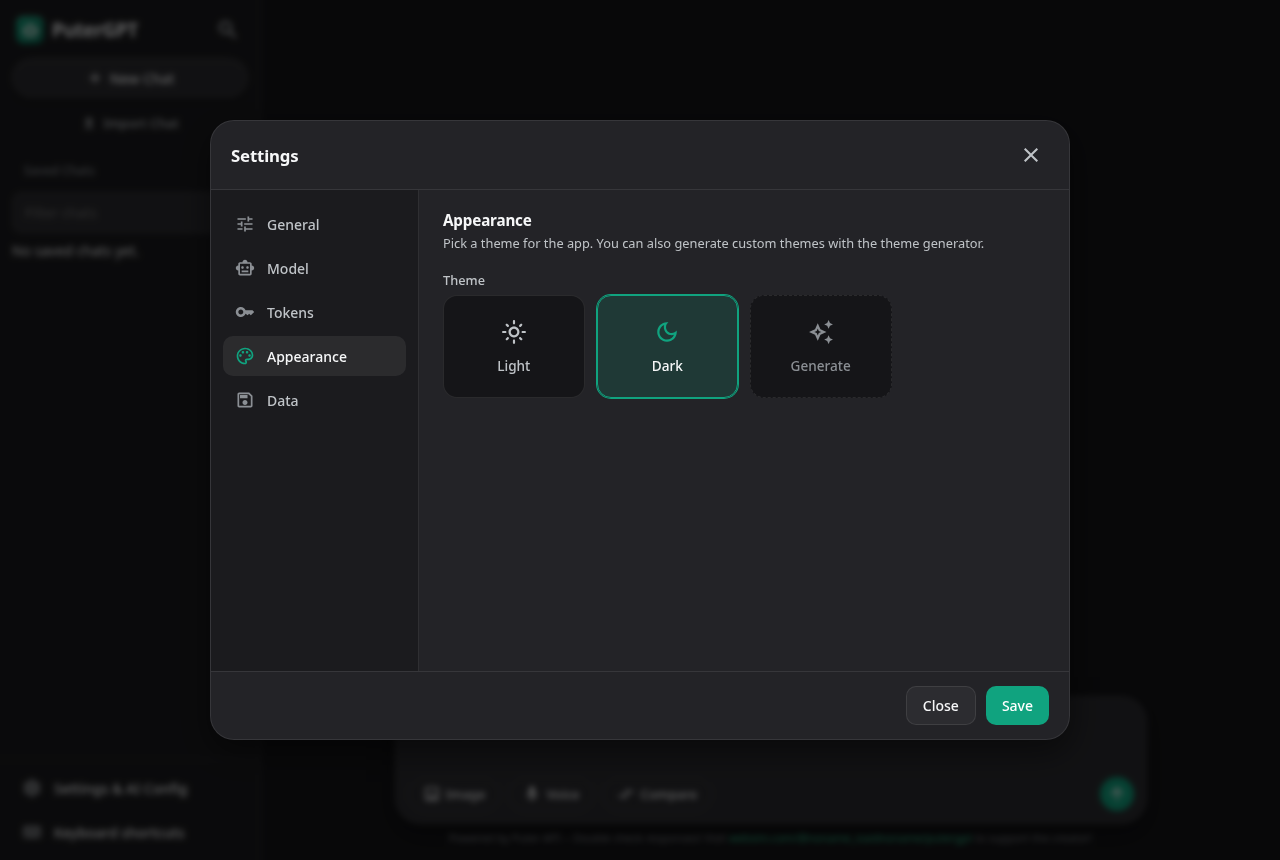
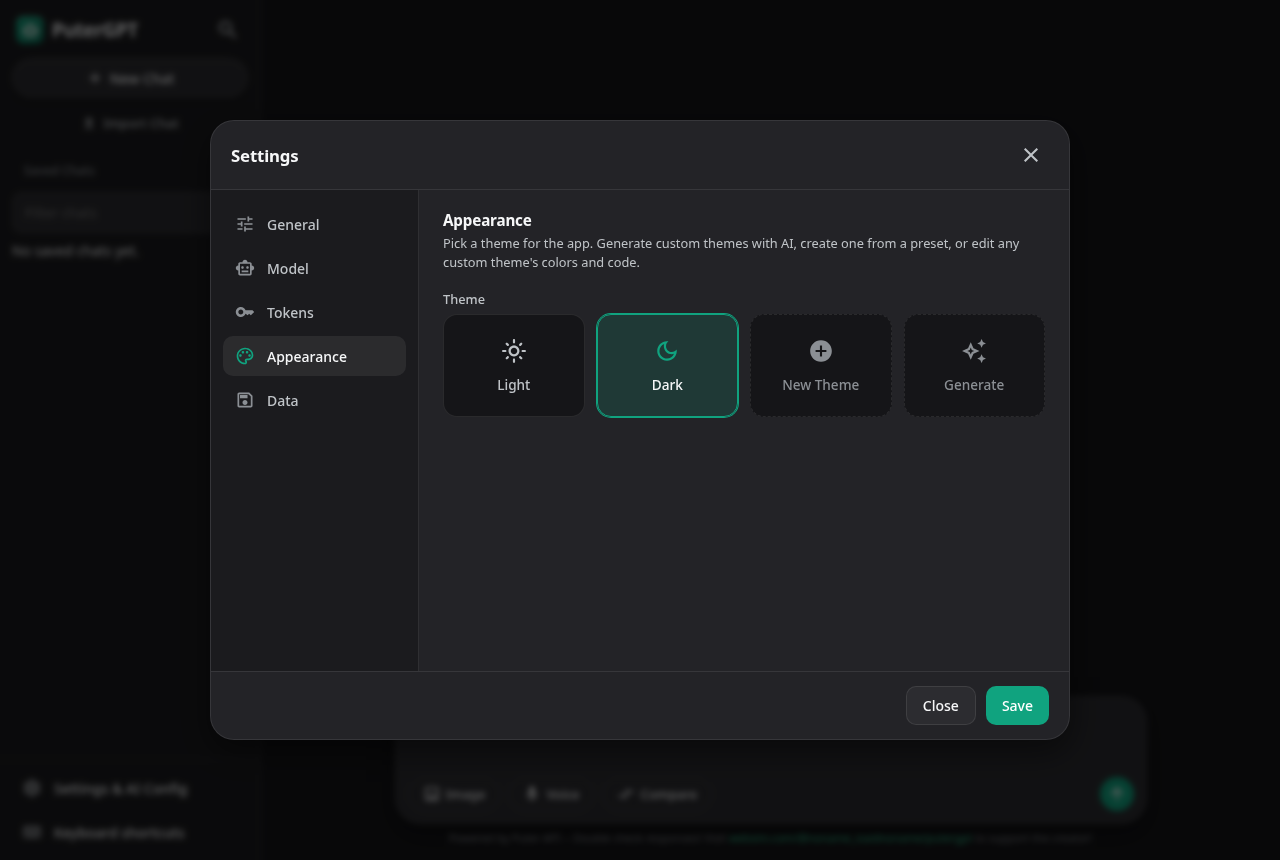
docs: rework docs and remove internal references from README.md

diff --git a/CONTRIBUTING.md b/CONTRIBUTING.md
@@ -1,28 +1,100 @@
 # Contributing
 
-PuterGPT is a static HTML, CSS, and vanilla JavaScript app. It is served as-is; do not add a build step, framework, or package manifest.
+PuterGPT is a static HTML, CSS, and vanilla JavaScript app — served as-is from the repo root. There is deliberately no build step, framework, bundler, or package manifest. Keep it that way unless a change is impossible to express with plain files.
 
-## Run locally
+This is the friendly version of the contributor guide. [AGENTS.md](AGENTS.md) carries the full project map, the state/security invariants, the failure modes we've hit, and the AI-agent context — dense but authoritative. [tools/README.md](tools/README.md) covers the verification harnesses in detail. When you're unsure where something in this repo is documented, check those before guessing.
+
+## Prerequisites
+
+- A modern browser (Chromium, Firefox, Safari) with IndexedDB support.
+- `python3` for the local static server — or any static file server.
+- Playwright (for screenshots / mobile emulation) and/or Lightpanda (fast, no graphical engine) for the verification harnesses. [tools/README.md](tools/README.md) covers installing them.
+
+## Run it locally
 
 ```bash
+git clone https://github.com/noname-isaidnoname/PuterGPT.git
+cd PuterGPT
 python3 -m http.server 8000
 ```
 
-Open `http://localhost:8000`. Read [AGENTS.md](AGENTS.md) for the project map, state and security invariants, theming rules, and verification gotchas.
+Open `http://localhost:8000`. Read [AGENTS.md](AGENTS.md) for the architecture map, the state invariants, the security rules, and the verification gotchas.
 
-## Verify changes
+A secure context such as HTTPS or localhost is needed for features including service workers and some clipboard and speech APIs.
 
-The browser harnesses and prerequisites are documented in [tools/README.md](tools/README.md). With the required tools already installed:
+## Project layout in one minute
+
+Everything is served from the repo root — there is no `src/` and no `dist/`.
+
+- `index.html` — the skeleton: sidebar, welcome view, composer, **all** modals (settings, settings-confirm, code runner, theme generator, delete-theme, theme editor, preset creation), the toast container, and the default dark `:root` CSS variables.
+- `js/` — plain ES modules loaded by the browser (no imports/exports are used; entry is `js/app.js`).
+- `css/` — one concern per file, linked from `index.html`.
+- `manifest.json`, `sw.js`, `js/pwa.js` — installable app shell.
+- `tools/` — verification harnesses (Node, zero app dependencies). They are not needed to run the app. Don't add them to commits by accident.
+- `screenshots/` — screenshots referenced by docs, can be committed; ad-hoc harness screenshots elsewhere are verification artifacts and don't belong in commits.
+
+For the detailed per-file ownership list see [AGENTS.md](AGENTS.md) ("Project map").
+
+## Verify your changes
+
+With the verification tools installed (see [tools/README.md](tools/README.md) for prerequisites):
 
 ```bash
-node tools/verify-all.js
-node tools/verify-all.js --changed
-node tools/verify-settings.js --backend playwright
-node tools/verify-mobile.js --backend playwright
+node tools/verify-all.js                  # full suite, runs in parallel
+node tools/verify-all.js --changed        # only harnesses affected by uncommitted changes (used by the pre-commit hook)
 ```
 
-The Playwright runs capture screenshots for visual inspection. Generation and state changes should also have an independent scenario in `tools/verify-edge-cases.js`. Ask before installing missing verification tools on someone else's machine.
+Single harnesses:
 
-Install the versioned pre-commit hook with `sh tools/install-hooks.sh`. It checks JavaScript syntax, runs the applicable verification harnesses, and blocks a failing commit. The hook can be bypassed in an emergency with `git commit --no-verify`.
+```bash
+node tools/verify-settings.js --backend playwright   # settings sidebar; needs Playwright for screenshots
+node tools/verify-custom-themes.js                  # theme-card grid (built-ins, custom themes, preset, edit buttons)
+node tools/verify-theme-editor.js                   # the theme editor end-to-end
+node tools/verify-mobile.js --backend playwright    # mobile viewport emulation
+node tools/verify-edge-cases.js                     # failure/abort/XSS paths (Playwright-only, fully offline mock API)
+node tools/verify-edge-cases.js --only 11           # one scenario by 1-based index; substrings work too
+```
 
-When changing cached app files, update the service worker cache version and maintain its app-shell asset list. Do not cache Puter API responses. Keep secrets, user data, and ad-hoc generated screenshots out of commits; screenshots under `screenshots/` that are used by the documentation are fine to commit.
+`node tools/verify-all.js` exits non-zero if anything fails; on success it prints one line per harness and the full output only for failures. `--verbose` prints everything; `--timeout N` bounds each harness (default 180s). Generation paths are mocked offline — nothing here hits the real Puter API except a few explicit scenarios.
+
+New user-visible behavior should come with a matching scenario in `tools/verify-edge-cases.js`.
+
+### Pre-commit hook
+
+`.githooks/pre-commit` runs `node tools/verify-all.js --changed` and blocks a failing commit (whole suite unless the change is docs/meta-only). Install once per clone:
+
+```bash
+sh tools/install-hooks.sh
+```
+
+Bypass in an emergency with `git commit --no-verify`.
+
+### Refreshing documentation screenshots
+
+The settings and theme-card screenshots referenced by `README.md` are generated by the harnesses:
+
+```bash
+node tools/verify-settings.js --backend playwright --screenshot-dir /tmp/shots
+node tools/verify-mobile.js --backend playwright   --screenshot-dir /tmp/shots
+```
+
+To use them in the docs, copy them into `screenshots/` and keep the references in `README.md` in sync. Only `screenshots/` is a valid place to commit screenshots; harness output elsewhere is an artifact and not for commits.
+
+### Cached files and the service worker
+
+If you change anything the service worker caches — `manifest.json`, `sw.js`, `index.html`, any `css/*.css`, any `js/*.js`, icons, CDN assets — bump `CACHE_NAME` in `sw.js` and keep `APP_SHELL` in sync with added or removed assets. Never cache Puter API responses or authenticated requests. The manifest theme color is intentionally static dark.
+
+### What doesn't belong in commits
+
+- Harness screenshots (they go to `$TMPDIR/putergpt-tools` by default).
+- `node_modules/`, `.fallow/`, editor/OS droppings.
+- Anything in `tools/.env`, any `PUTER_TOKEN`, or anything with a real user prompt, token, or chat content.
+- The only allowed screenshots live under `screenshots/` and are referenced by the docs.
+- `screenshots/` itself is the exception: images referenced by `README.md` may be committed there.
+
+## Where the documentation lives
+
+- [README.md](README.md) — what PuterGPT does for users: features, screenshots, privacy, limitations. No internals.
+- [CONTRIBUTING.md](CONTRIBUTING.md) — this file: how to run and verify the app as a contributor.
+- [AGENTS.md](AGENTS.md) — full internal map for AI agents: invariants, gotchas, verification trapdoors, the full theme/custom-theme state machine.
+- [tools/README.md](tools/README.md) — the verification harnesses and their per-script coverage.

diff --git a/README.md b/README.md
@@ -45,7 +45,7 @@ flowchart LR
     end
 ```
 
-This is a schematic, not a screenshot. For current desktop and mobile screenshots, see [Development and visual checks](#development-and-visual-checks).
+This is a schematic, not a screenshot. See the screenshots below.
 
 | Settings and theme cards | Mobile settings |
 | --- | --- |
@@ -60,7 +60,8 @@ This is a schematic, not a screenshot. For current desktop and mobile screenshot
 - **Organize and search:** Filter chat titles in the sidebar, pin conversations, and search saved chats. New chats can be named automatically using a free model when one is available.
 - **Backups and exports:** Export individual chats as JSON or Markdown, print a transcript, or use Settings → Data to export and merge a full backup. API tokens are excluded from backups unless explicitly selected. Backups and exports may contain prompts, images, and other private conversation data.
 - **Sharing and input:** Share a chat using the mobile share sheet when available, or copy its link. Supported browsers also offer voice input.
-- **Themes and tokens:** Choose a built-in theme or create a custom theme, manage multiple tokens, and opt in to token rotation. Custom themes can contain JavaScript effects; only import themes and backups you trust.
+- **Themes:** Choose a built-in theme, or create a custom theme (generate one with AI, or start from a dark/light preset and tweak it yourself). Edit any custom theme's colors and JavaScript effects — enable the live preview to see changes as you type. Only import themes and backups you trust — custom themes can contain JavaScript effects.
+- **Tokens:** Manage multiple Puter API tokens — add them by hand or via Quick Register — and opt in to token rotation so a failing token rotates to the next one automatically.
 - **Installable shell:** On supported browsers, install the app and reopen its cached interface offline. Generation and other Puter API operations still require a network connection. Updates wait for you to choose Reload.
 - **Keyboard access:** Press `?` or use **Keyboard shortcuts** in the sidebar for the full list. `Ctrl+K` focuses the chat filter, `Ctrl+,` opens settings, and `Ctrl+Shift+E` exports the current chat; use `Cmd` instead of `Ctrl` on macOS.
 
@@ -82,17 +83,8 @@ Puter requests send the selected token and relevant prompts or attachments to Pu
 - Legacy `puter_*` localStorage data is migrated to IndexedDB during startup when the corresponding database tables are empty. Existing database records are not replaced by that migration.
 - The app depends on third-party scripts and the Puter API. If a required library cannot load, a blocking error is shown instead of a partially functioning interface.
 
-## Development and visual checks
-
-See [CONTRIBUTING.md](CONTRIBUTING.md) and [tools/README.md](tools/README.md). The app needs no build or package installation; verification tools are separate:
-
-```bash
-node tools/verify-all.js
-node tools/verify-all.js --changed
-```
-
-For screenshots of the current settings sidebar and theme cards, run `node tools/verify-settings.js --backend playwright`. The harness writes `settings-general.png` and `settings-appearance.png` to the screenshot directory shown in its output (by default `$TMPDIR/putergpt-tools`); `node tools/verify-mobile.js --backend playwright` captures mobile views. Harness screenshots are verification artifacts; they don't belong in commits by default. The exception is `screenshots/`: screenshots stored there and referenced by the documentation are part of the repository and may be committed. To refresh them, copy the harness output there (e.g. with `--screenshot-dir screenshots`) and keep the docs' references in sync.
-
 ## Project
 
 Source and issue tracker: [github.com/noname-isaidnoname/PuterGPT](https://github.com/noname-isaidnoname/PuterGPT).
+
+Contributors: see [CONTRIBUTING.md](CONTRIBUTING.md) for local development and verification tooling. Editors of the app should read [AGENTS.md](AGENTS.md) for the project map and internal conventions.

diff --git a/AGENTS.md b/AGENTS.md
@@ -2,6 +2,16 @@
 
 Hosted at GitHub Pages: `https://noname-isaidnoname.github.io/PuterGPT/`, deliberately no build steps or servers: see below.
 
+## README, CONTRIBUTING, this file
+
+Three documents, three audiences — keep them consistent with their audience:
+
+- **`README.md`** is user-facing info only — what PuterGPT does, how to use it, privacy, limitations, project links. **No internals, no tooling, no implementation rationale, no verification details, no AI-agent context.** If you're tempted to put it there, it belongs in `CONTRIBUTING.md` (humans) or `AGENTS.md` (agents).
+- **`CONTRIBUTING.md`** is the human contributor guide — approachable, step-by-step: run locally, verify, screenshot refresh workflow, what doesn't belong in commits.
+- **`AGENTS.md`** (this file) is for AI agents — dense reference: architecture map, file ownership, invariants, failure modes, verification traps. It intentionally has no friendly intro.
+
+If you change a file's responsibilities here, update all three in the same change so nothing contradicts anything else. If you add user-facing docs that mention internals, move them out.
+
 PuterGPT — a browser-based AI chat client for [Puter.ai](https://puter.ai) models. Static HTML/CSS/vanilla JS. **No build step, no server, no package.json.** The deployed site is served as-is from this directory (GitHub Pages), and the same files run fine off `python3 -m http.server`.
 
 Everything lives in one big `index.html`; there is no bundler, no TypeScript, no lint/test harness. Keep it that way unless the user asks for tooling.
@@ -150,4 +160,4 @@ Short imperative summaries (`redesign: …` is fine). No attribution of tools/mo
 
 ## Updating this file
 
-If you learn something the next agent would rediscover the hard way — a platform quirk, a verification trap, a file that owns an unexpected behavior — write it down here in the same change. Keep it accurate; wrong notes are worse than missing ones.
+If you learn something the next agent would rediscover the hard way — a platform quirk, a verification trap, a file that owns an unexpected behavior — write it down here in the same change. Keep it accurate; wrong notes are worse than missing ones. Don't outsource content to `README.md`: if it's not user-facing info, it doesn't belong there — `CONTRIBUTING.md` and this file are the homes for it.
